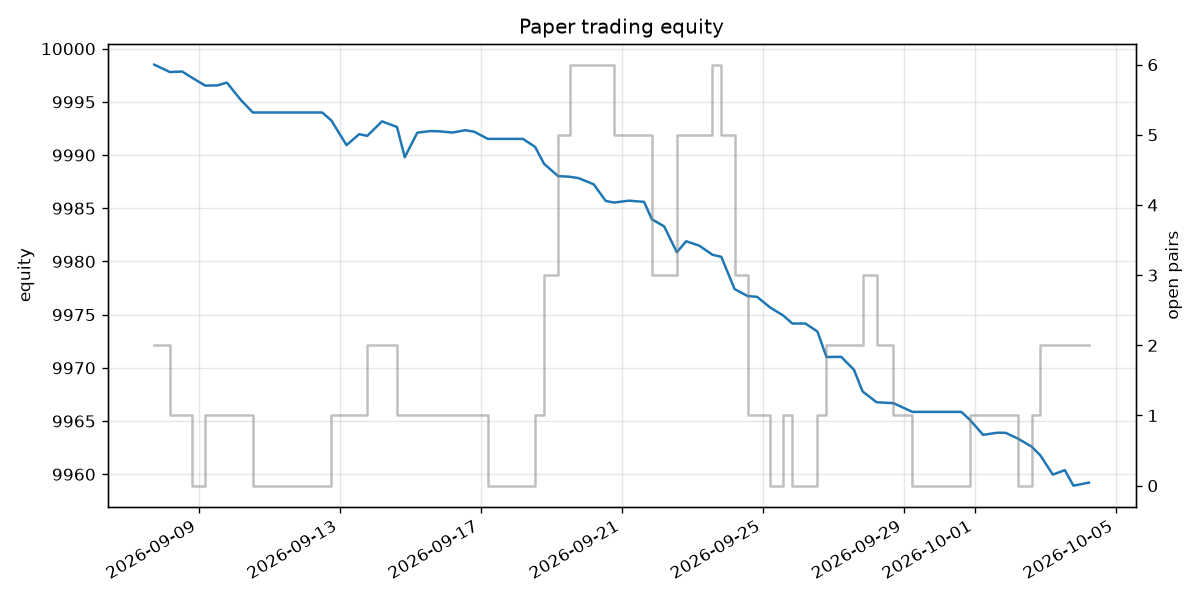
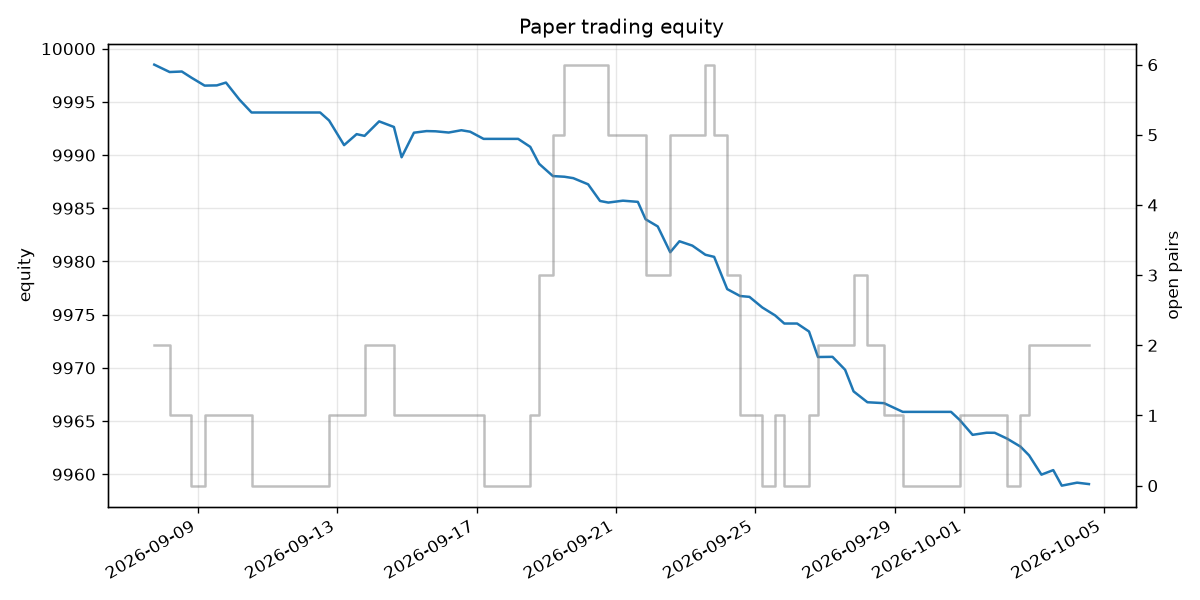
paper: step 2026-10-04T13:54Z

diff --git a/reports/paper_latest.md b/reports/paper_latest.md
@@ -1,14 +1,14 @@
 # Paper trading status
 
-Run #79 at 2026-10-04 05:43 UTC. Threshold 0.010% per funding interval, signal = mean of last 3 settled rates. Universe: BTCUSDT, ETHUSDT, SOLUSDT, ZECUSDT, XRPUSDT, SANDUSDT, BNBUSDT, WLDUSDT, DOGEUSDT, NEARUSDT.
+Run #80 at 2026-10-04 13:53 UTC. Threshold 0.010% per funding interval, signal = mean of last 3 settled rates. Universe: BTCUSDT, ETHUSDT, SOLUSDT, ZECUSDT, XRPUSDT, BNBUSDT, SANDUSDT, WLDUSDT, DOGEUSDT, NEARUSDT.
 
 | metric | value |
 |---|---|
-| equity | 9,959.21 USDT |
-| return since start | -0.41% (26.5 days) |
-| annualised | -5.62% |
+| equity | 9,959.08 USDT |
+| return since start | -0.41% (26.8 days) |
+| annualised | -5.57% |
 | realized (closed pairs) | -39.66 USDT |
-| funding received this run | 0.1005 USDT |
+| funding received this run | 0.1001 USDT |
 | open pairs | 2 / 10 |
 | free cash | 7,960.34 USDT |
 | skipped symbols | 0 |
@@ -17,16 +17,16 @@ Run #79 at 2026-10-04 05:43 UTC. Threshold 0.010% per funding interval, signal =
 
 | symbol | held | action | signal | mark | spot | funding accrued | basis MTM | margin ratio | liq. price | liq. distance |
 |---|---|---|---|---|---|---|---|---|---|---|
-| NEARUSDT | yes |  | 0.0100% | 4.8803 | 4.8790 | 0.0519 | -0.0499 | 0.54% | 9.3508 | 91.6% |
-| ZECUSDT | yes |  | 0.0100% | 1,341.1200 | 1,341.9600 | 0.2372 | 0.1283 | 0.47% | 2,748.8557 | 105.0% |
-| BNBUSDT | no |  | 0.0007% | 787.0000 | 787.2000 | - | - | - | - | - |
-| BTCUSDT | no |  | -0.0003% | 84,863.1500 | 84,904.1000 | - | - | - | - | - |
-| DOGEUSDT | no |  | 0.0049% | 0.0929 | 0.0929 | - | - | - | - | - |
-| ETHUSDT | no |  | 0.0020% | 2,694.9800 | 2,695.9600 | - | - | - | - | - |
-| SANDUSDT | no |  | -0.5071% | 0.0780 | 0.0783 | - | - | - | - | - |
-| SOLUSDT | no |  | 0.0006% | 120.9400 | 120.9900 | - | - | - | - | - |
-| WLDUSDT | no |  | 0.0077% | 0.5928 | 0.5932 | - | - | - | - | - |
-| XRPUSDT | no |  | 0.0008% | 1.4920 | 1.4926 | - | - | - | - | - |
+| NEARUSDT | yes |  | 0.0100% | 4.8784 | 4.8770 | 0.1038 | -0.0606 | 0.54% | 9.3508 | 91.7% |
+| ZECUSDT | yes |  | 0.0100% | 1,332.4900 | 1,332.7100 | 0.2855 | -0.0949 | 0.47% | 2,748.8557 | 106.3% |
+| BNBUSDT | no |  | 0.0078% | 789.6500 | 790.0000 | - | - | - | - | - |
+| BTCUSDT | no |  | 0.0011% | 85,221.5000 | 85,264.6000 | - | - | - | - | - |
+| DOGEUSDT | no |  | 0.0067% | 0.0936 | 0.0936 | - | - | - | - | - |
+| ETHUSDT | no |  | 0.0020% | 2,697.8000 | 2,698.8700 | - | - | - | - | - |
+| SANDUSDT | no |  | -0.3770% | 0.0797 | 0.0797 | - | - | - | - | - |
+| SOLUSDT | no |  | 0.0008% | 121.6900 | 121.7600 | - | - | - | - | - |
+| WLDUSDT | no |  | 0.0051% | 0.5802 | 0.5805 | - | - | - | - | - |
+| XRPUSDT | no |  | 0.0019% | 1.5024 | 1.5027 | - | - | - | - | - |
 
 ![equity](paper_equity.png)
 
